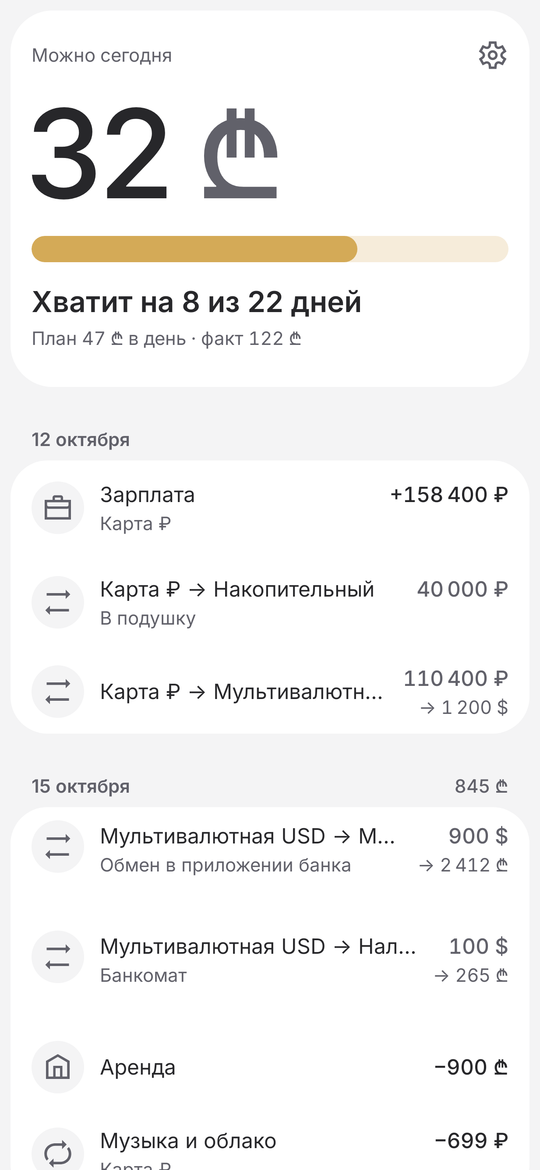
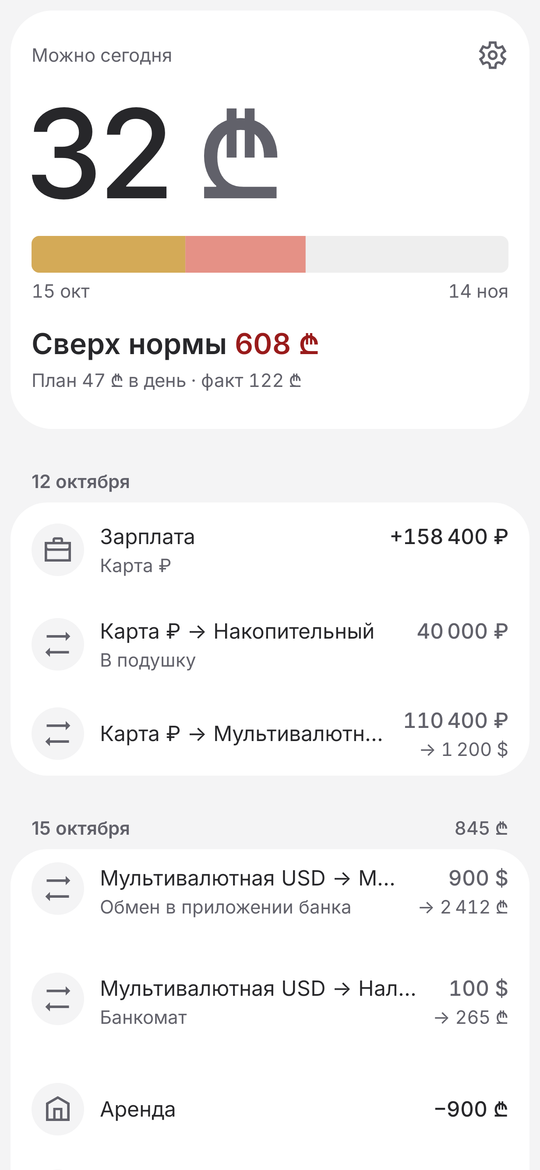
Home: the period as one bar, against the norm
The pace capsule gives way to one wide bar of the period: the days gone
pale, the money gone over them, past the even pace in red, with the
period's ends under it. The line under it says "Сверх нормы 258 ₾" or
"В норме", then the plan a day against the actual. The norm and the
shares live on Envelope, with tests.

diff --git a/app/src/main/java/sh/aminov/golda/ui/Screens.kt b/app/src/main/java/sh/aminov/golda/ui/Screens.kt
@@ -1,6 +1,14 @@
 package sh.aminov.golda.ui
 
 import androidx.compose.runtime.LaunchedEffect
+import androidx.compose.foundation.Canvas
+import androidx.compose.foundation.shape.RoundedCornerShape
+import androidx.compose.ui.geometry.Offset
+import androidx.compose.ui.geometry.Size
+import androidx.compose.ui.platform.LocalLayoutDirection
+import androidx.compose.ui.unit.LayoutDirection
+import java.time.format.DateTimeFormatter
+import sh.aminov.golda.domain.I18n
 import androidx.compose.animation.core.Animatable
 import androidx.compose.foundation.layout.offset
 import androidx.compose.ui.draw.drawWithContent
@@ -110,11 +118,8 @@ fun HomeScreen(
     val envelope = data.envelope
     LazyColumn(Modifier.fillMaxSize(), state = listState, contentPadding = padding.aboveActions()) {
         item(key = "hero") {
-            // One vivid tile holds the day: what may go today, what is on the card until when, and
-            // whether it lasts at the pace it actually goes. Spent past today's share, the whole tile
-            // turns to the error container.
-            // Spent past today's share, or nothing left on the card at all.
-            val over = envelope != null && (envelope.leftTodayMinor < 0 || envelope.balanceMinor <= 0)
+            // One vivid tile holds the day: what may go today, and the period as one bar, time against
+            // money, with whether the money goes faster than the days.
             val scheme = MaterialTheme.colorScheme
             val ink = scheme.onSurface
             val quiet = scheme.onSurfaceVariant
@@ -141,40 +146,32 @@ fun HomeScreen(
                 // caption, caption to figures, figures to bar, bar to text, under the text. The figures'
                 // line keeps its empty descent under the digits, so the spacer here is that much shorter.
                 VSpace(Gap.m - HeroDescent)
-                // What is still left of today's share; flat and full once it is spent.
-                val share = when {
-                    over -> 1f
-                    envelope.perDayMinor > 0 -> (left.toFloat() / envelope.perDayMinor).coerceIn(0f, 1f)
-                    else -> 0f
+                // The period as one bar: the days gone pale, the money gone over them, and what went
+                // past the even pace in red. The money short of the pale end is the margin.
+                val red = paceColor(Pace.OVER)
+                PeriodBar(envelope.timeShare, envelope.spentShare, paceColor(Pace.LASTS), red)
+                VSpace(Gap.xs)
+                // Where the bar starts and ends; no "today" here, the caption over the figure says it.
+                Row(Modifier.fillMaxWidth()) {
+                    Text(dayMonth(envelope.start), Modifier.weight(1f), style = text, color = quiet, maxLines = 1)
+                    Text(dayMonth(envelope.end), style = text, color = quiet, maxLines = 1)
                 }
-                // The one colour on the screen: how it goes. Green while the money lasts the period,
-                // ochre when it runs out sooner, muted red once today is overspent.
-                val pace = when {
-                    over -> Pace.OVER
-                    envelope.lasts(today) -> Pace.LASTS
-                    else -> Pace.SHORT
-                }
-                PaceCapsule(share, paceColor(pace))
                 VSpace(Gap.m)
-                // Looking ahead from today: the days still to get through, and the days the money lasts
-                // at the pace it really goes. Worked out again every day. A tap changes the period.
+                // Against the even pace: within it, or how much past it. A tap changes the period.
                 Column(Modifier.fillMaxWidth().clickable(onClick = onPeriod).testTag(Tags.HOME_PERIOD)) {
                     val ahead = envelope.daysLeft
                     fun days(n: Long) = plural(n, "день", "дня", "дней", "day", "days")
-                    // "из 13 дней", "из 21 дня": the genitive after "из".
-                    val ofDays = plural(ahead, "дня", "дней", "дней", "day", "days")
-                    val lasts = envelope.runwayDays
+                    val beyond = envelope.overNormMinor
                     Text(
                         when {
-                            envelope.balanceMinor <= 0 -> tr("Денег нет, впереди $ahead ${days(ahead)}", "No money left, $ahead ${days(ahead)} to go")
-                            left < 0 -> tr("Сегодня сверх плана на ${whole(-left, code)}", "${whole(-left, code)} over today's plan")
-                            ahead <= 1L -> tr("Последний день", "The last day")
-                            lasts == null -> tr("Впереди $ahead ${days(ahead)}", "$ahead ${days(ahead)} to go")
-                            envelope.lasts(today) -> (lasts - ahead).let { spare ->
-                                // A week or more to spare is worth saying; a day or two is noise.
-                                tr("Хватит на все $ahead ${days(ahead)}", "Lasts all $ahead ${days(ahead)}") + if (spare >= 7) ", +$spare" else ""
+                            envelope.balanceMinor <= 0 -> AnnotatedString(tr("Денег нет, впереди $ahead ${days(ahead)}", "No money left, $ahead ${days(ahead)} to go"))
+                            // Less than half a unit past it still reads "0 ₾": that is within it.
+                            beyond > 0 && Fmt.whole(beyond, code) != "0" -> buildAnnotatedString {
+                                append(tr("Сверх нормы ", "Over the norm by "))
+                                // The bar's red is too pale for words; the error ink reads in both themes.
+                                withStyle(SpanStyle(color = scheme.onErrorContainer)) { append(whole(beyond, code)) }
                             }
-                            else -> tr("Хватит на $lasts из $ahead $ofDays", "Lasts $lasts of $ahead $ofDays")
+                            else -> AnnotatedString(tr("В норме", "Within the norm"))
                         },
                         Modifier.testTag(Tags.HOME_RUNWAY),
                         // The tile's main statement: the one semibold line, in full ink, a size up.
@@ -575,15 +572,33 @@ private fun interestLine(minor: Long, currency: String, today: LocalDate): Strin
 /** "20 ₾": whole units only, for the numbers around the big one, which should be read at a glance. */
 private fun whole(minor: Long, code: String): String = Fmt.whole(minor, code) + " " + Currencies.symbol(code)
 
+/** "26 окт", "Oct 26": the ends of the period under its bar. Java's own Russian is "нояб.", hence the list. */
+private fun dayMonth(date: LocalDate): String =
+    if (I18n.russian) "${date.dayOfMonth} " + listOf("янв", "фев", "мар", "апр", "мая", "июн", "июл", "авг", "сен", "окт", "ноя", "дек")[date.monthValue - 1]
+    else date.format(DateTimeFormatter.ofPattern("MMM d", I18n.locale))
+
 /**
- * Today's share as a chunky capsule: the pace's colour filling a pale track of the same colour,
- * gliding to a new value with a little give.
+ * The period as one wide bar with small corners: the days gone in a pale [color], the money gone over
+ * them in [color] as far as the days and in [over] past them. Gliding to new values with a little give.
  */
 @Composable
-private fun PaceCapsule(share: Float, color: Color) {
-    val shown by animateFloatAsState(share.coerceIn(0f, 1f), MaterialTheme.motionScheme.slowSpatialSpec(), label = "capsule")
-    Box(Modifier.fillMaxWidth().height(20.dp).clip(CircleShape).background(color.copy(alpha = 0.22f))) {
-        if (shown > 0f) Box(Modifier.fillMaxHeight().fillMaxWidth(shown.coerceAtLeast(0.06f)).clip(CircleShape).background(color))
+private fun PeriodBar(time: Float, spent: Float, color: Color, over: Color) {
+    val spec = MaterialTheme.motionScheme.slowSpatialSpec<Float>()
+    val t by animateFloatAsState(time.coerceIn(0f, 1f), spec, label = "time")
+    val s by animateFloatAsState(spent.coerceIn(0f, 1f), spec, label = "spent")
+    val track = MaterialTheme.colorScheme.onSurface.copy(alpha = 0.08f)
+    val rtl = LocalLayoutDirection.current == LayoutDirection.Rtl
+    Canvas(Modifier.fillMaxWidth().height(28.dp).clip(RoundedCornerShape(6.dp))) {
+        fun band(from: Float, to: Float, paint: Color) {
+            if (to <= from) return
+            val x = size.width * from
+            val w = size.width * (to - from)
+            drawRect(paint, Offset(if (rtl) size.width - x - w else x, 0f), Size(w, size.height))
+        }
+        drawRect(track)
+        band(0f, t, color.copy(alpha = 0.32f))
+        band(0f, minOf(s, t), color)
+        band(t, s, over)
     }
 }
 

diff --git a/app/src/test/java/sh/aminov/golda/DebtsEnvelopePropertiesTest.kt b/app/src/test/java/sh/aminov/golda/DebtsEnvelopePropertiesTest.kt
@@ -199,6 +199,47 @@ class DebtsEnvelopePropertiesTest {
     }
 
     @Test
+    fun theNormIsTheMoneyAtAnEvenPace() {
+        // 1 800 for 26 October to 26 November, 32 days; on the 10th 820 is gone where 562,50 would have.
+        val today = start.plusDays(9)
+        val ops = listOf(op(1, OpType.INCOME, start, card to 180_000), op(2, OpType.EXPENSE, today, card to -82_000))
+        val e = Envelopes.of(card, start, start.plusDays(31), ops, today, zone)
+        assertEquals(32L, e.totalDays)
+        assertEquals(10L, e.elapsedDays)
+        assertEquals(180_000L, e.fundsMinor)
+        assertEquals(56_250L, e.normMinor)
+        assertEquals(25_750L, e.overNormMinor)
+        assertEquals(10f / 32, e.timeShare)
+        assertEquals(82_000f / 180_000, e.spentShare)
+        // Spent less than the norm: within it.
+        val slow = Envelopes.of(card, start, start.plusDays(31), listOf(ops[0], op(2, OpType.EXPENSE, today, card to -44_000)), today, zone)
+        assertEquals(44_000L - 56_250, slow.overNormMinor)
+    }
+
+    @Test
+    fun theNormRunsFromADayToAllTheMoney() = prop {
+        checkAll(Arb.long(0L..10_000_000L), Arb.long(0L..10_000_000L), Arb.int(0..40), Arb.int(0..40)) { topUp, spend, daysIn, after ->
+            val today = start.plusDays(daysIn.toLong())
+            val end = today.plusDays(after.toLong())
+            val ops = listOf(op(1, OpType.INCOME, start, card to topUp), op(2, OpType.EXPENSE, today, card to -spend))
+            val e = Envelopes.of(card, start, end, ops, today, zone)
+            assertEquals(daysIn + after + 1L, e.totalDays)
+            assertEquals(daysIn + 1L, e.elapsedDays)
+            assertEquals(topUp, e.fundsMinor)
+            assertEquals(spend, e.normMinor + e.overNormMinor)
+            assertTrue(e.normMinor in 0..topUp)
+            assertTrue(e.timeShare > 0f && e.timeShare <= 1f)
+            assertTrue(e.spentShare in 0f..1f)
+            // The last day the norm is all of it; the first, a day's worth.
+            if (after == 0) assertEquals(topUp, e.normMinor)
+            if (daysIn == 0) assertEquals(topUp / e.totalDays, e.normMinor)
+            // Nothing on the card and something spent: the money is all gone.
+            if (spend > 0 && topUp == 0L) assertEquals(1f, e.spentShare)
+            if (spend == 0L) assertEquals(0f, e.spentShare)
+        }
+    }
+
+    @Test
     fun theUsualLengths() {
         assertEquals(LocalDate.of(2026, 10, 22), Envelopes.end(start, Envelopes.Length.WEEK))
         assertEquals(LocalDate.of(2026, 10, 29), Envelopes.end(start, Envelopes.Length.TWO_WEEKS))

diff --git a/app/src/main/java/sh/aminov/golda/domain/Envelope.kt b/app/src/main/java/sh/aminov/golda/domain/Envelope.kt
@@ -55,6 +55,33 @@ data class Envelope(
      */
     fun lastsDays(today: LocalDate): Long? = runsOut(today)?.let { ChronoUnit.DAYS.between(start, it) }
 
+    /** Days in the period, the last one included: 26 October to 26 November is 32. */
+    val totalDays: Long get() = ChronoUnit.DAYS.between(start, end) + 1
+
+    /** Days of the period gone, today included: the 10th day is 10. */
+    val elapsedDays: Long get() = (totalDays - daysLeft + 1).coerceIn(1, totalDays)
+
+    /** The money of the period: what is on the card and what has gone from it since [start]. */
+    val fundsMinor: Long get() = balanceMinor + spentMinor
+
+    /**
+     * What would have gone by the end of today at an even pace: the money over the days, times the days
+     * gone. 1 800 ₾ for 32 days, on the 10th: 562 ₾.
+     */
+    val normMinor: Long get() = fundsMinor.coerceAtLeast(0) * elapsedDays / totalDays
+
+    /** Gone past the norm, "Сверх нормы 258 ₾"; zero or less is within it. */
+    val overNormMinor: Long get() = spentMinor - normMinor
+
+    /** The share of the period gone, today included, 0..1. */
+    val timeShare: Float get() = elapsedDays.toFloat() / totalDays
+
+    /** The share of the period's money gone, 0..1: all of it once nothing is left. */
+    val spentShare: Float get() = when {
+        fundsMinor <= 0 -> if (spentMinor > 0) 1f else 0f
+        else -> (spentMinor.toFloat() / fundsMinor).coerceIn(0f, 1f)
+    }
+
     /** The period's length in words when it is one of the usual ones. */
     val length: Envelopes.Length? get() = Envelopes.Length.entries.firstOrNull { Envelopes.end(start, it) == end }
 }

diff --git a/docs/tasks/home-details.md b/docs/tasks/home-details.md
@@ -1,5 +1,5 @@
 # Главная — аккуратные детали
-Статус: ждёт пользователя · Обновлено: 2026-11-04
+Статус: в работе · Обновлено: 2026-11-04
 
 ## Цель
 Дополнить главную одной-двумя маленькими полезными деталями, не ломая «одну цифру и одну полосу». Сначала прототип на
@@ -26,6 +26,9 @@
   понятная; предложи на выбор». Вторая строка: «„Ушло столько-то из стольких“ мне не интересно, я же говорил.
   Интереснее, какой план на день и какой фактически — как было раньше („План 43 ₾ в день · факт 67 ₾“). Какие суммы
   ушли конкретно — не так интересно». → Под статусом остаётся «План … в день · факт …».
+- 2026-11-04, раунд 5: выбрана формулировка **5** — «Сверх нормы 258 ₾» при переборе, «В норме» при запасе (без
+  суммы). Строим К1·а в коде: «Можно сегодня», цифра, полоса шире с малым скруглением (время бледно, траты поверх,
+  перебор красным), даты концов под полосой, статус формулировки 5, «План … в день · факт …». Без подсказок.
 
 ## Варианты (раунд 5, текущий): слова К1·а
 [home-details/prototype.html](home-details/prototype.html), кадр [home-details/prototype.png](home-details/prototype.png).
@@ -45,25 +48,29 @@
 - раунд 1: детали A–D — отвергнут (две полосы/графика)
 - раунд 2: четыре замены полосы темпа
 - раунд 4: три доводки К1 и три Р3 с инверсией — выбран К1·а
-- раунд 5: пять формулировок перебора/запаса для К1·а
+- раунд 5: пять формулировок перебора/запаса — выбрана 5
+- код: К1·а на главной. `Envelope` — `totalDays`, `elapsedDays`, `fundsMinor`, `normMinor`, `overNormMinor`,
+  `timeShare`, `spentShare` (тесты в `DebtsEnvelopePropertiesTest`, пример и свойства). `HomeScreen` — `PeriodBar`
+  вместо `PaceCapsule` (28 dp, скругление 6 dp), даты концов, статус «Сверх нормы N ₾» / «В норме», «План · факт».
+  Скриншоты перезаписаны; кадры до/после — `home-details/build-before*.png`, `build-after*.png`. README, SPEC §5.
 
 ## Осталось
-- [ ] пользователь выбирает формулировку; строить — по слову оркестратора
-- [ ] перенос в `HomeScreen` (ui/Screens.kt, вместо `PaceCapsule`), тексты через `tr`, тест на «сверх нормы N ₾» (норма = деньги × прошедшие дни / дни),
-  скриншот-тест, README/SPEC §5.2 и §5.5
+- [ ] показать на dev (телефон занят — делает оркестратор), влить в main вместе с соседними ветками
 
 ## Вопросы
-- Как назвать перебор и запас? — 1–5 — **рекомендую 1: «Сверх нормы 258 ₾» / «Запас 122 ₾»**: слово пользователя,
-  коротко, сумма отвечает «насколько», пара симметрична (два существительных). Если сумма в статусе лишняя рядом с
-  «План · факт» — 5 («В норме» без цифры при запасе).
+- Сумма «Сверх нормы» — тёмно-красным (`onErrorContainer`), а не красным полосы: бледный красный полосы на светлой
+  теме не читается как текст. Оставить так? — **рекомендую да**.
 - Р3 (карточка-полоса с инверсией) — отложен; вернуться вместе с задачей «Смелые темы».
 
 ## Подводные камни
-- Пользователь: элемент на плитке **один**. Ничего не добавлять рядом с полосой — только заменять её.
-- Дни в периоде: последний день ещё в нём (SPEC §5.1), месяц с 26 октября — 32 кусочка, `daysLeft` считает сегодня.
-  Кусочки «не хватит» = `daysLeft − runwayDays`; без бёрна (`runwayDays == null`) — все светлые.
-- В бёрн разовые не входят, а в «ушло» (вариант 1) — входят (это деньги с карты).
-- Цвет — по-прежнему цвет темпа (`paceColor`): перерасход за сегодня красит сегодняшний кусочек и светлые дни.
+- Пользователь: элемент на плитке **один**. Ничего не добавлять рядом с полосой.
+- Дни периода считают последний день (SPEC §5.1): месяц с 26 октября — 32 дня; `elapsedDays` = 32 − `daysLeft` + 1.
+- «Ушло» в полосе и норме — со всеми тратами, разовые включены (деньги ушли с карты); бёрн («факт») — без разовых.
+  Поэтому после крупной покупки «Сверх нормы» может быть, а «факт» — спокойный. Так задумано.
+- Деньги периода = остаток + ушло: пополнения в середине периода увеличивают их задним числом, норма пересчитывается.
+- Меньше полуединицы сверх нормы — «В норме» (иначе «Сверх нормы 0 ₾»).
+- Java сокращает «ноября» как «нояб.» — месяцы под полосой своим списком (`dayMonth`).
+- Пока бёрна нет, строка «План … в день» без «факт» — как и было.
 
 ## Готово, когда
-Пользователь выбрал вариант; после переноса — кадр на dev и скриншот-тест главной.
+Скриншот-тест главной перезаписан (сделано); кадр на dev — у оркестратора.

diff --git a/SPEC.md b/SPEC.md
@@ -266,6 +266,9 @@
 можно сегодня = на день − потрачено сегодня
 бёрн         = ушло с карты с начала периода, кроме разовых / дней с начала (сегодня включительно)
 хватит до    = сегодня + остаток / бёрн
+деньги периода = остаток на карте + ушло с начала периода
+норма        = деньги периода × прошедшие дни (сегодня включительно) / дни периода
+сверх нормы  = ушло с начала периода − норма
 ```
 
 Всё в валюте карты: положил 60 000 ₽, пришло 1 800 ₾ — считается в лари.
@@ -293,9 +296,13 @@
 - Поэтому бёрн не зависит от того, всё ли записано: сверил карту с банком —
   незаписанное попало в «Не записано» (п. 5.4), и бёрн честный. Записи нужны,
   чтобы видеть, куда ушли деньги, а не чтобы бюджет сходился.
-- На главной: «1 237 ₾ до 26 ноября · 56 ₾ в день» и «Тратишь 70 ₾ в день —
-  хватит до 30 ноября» или «— кончится 20 ноября, на 6 дней раньше». Пока с
-  начала периода ничего не ушло — «Темп появится после первых трат».
+- На главной под «Можно сегодня» — период одной широкой полосой с малым
+  скруглением: прошедшие дни — бледный цвет темпа, ушедшие деньги поверх —
+  цвет темпа, пока не обгоняют дни, и красный сверх них. Под полосой — даты
+  начала и конца. Дальше статус: «Сверх нормы 258 ₾» или «В норме» (меньше
+  полуединицы сверх — тоже в норме; денег на карте нет — «Денег нет, впереди
+  N дней»), и строка «План 43 ₾ в день · факт 67 ₾» — бёрн, пока он есть.
+  В «ушло» здесь входят и разовые: это деньги, ушедшие с карты.
 
 ### 5.3 Корзины и категории
 
@@ -336,8 +343,8 @@
 - **Сегодня** обновляется в полночь, при возвращении в приложение и при смене
   даты, времени или пояса: «Сегодня/Вчера» и бюджет не застревают во
   вчерашнем дне.
-- Главный экран показывает «можно сегодня» крупно, период и бёрн.
-  Перерасход за сегодня выделяется красным.
+- Главный экран показывает «можно сегодня» крупно, полосу периода, норму и
+  бёрн. Перерасход за сегодня — минусом в крупной цифре.
 - После записи траты с карты трат снизу пишется, сколько на сегодня осталось.
 
 ---

diff --git a/README.md b/README.md
@@ -60,10 +60,11 @@ loud is the moment you notice you are spending.
   that card asks "Новый месяц с …?" (on for a transfer from your own account,
   off for an income), so a friend's money never restarts the month; when the
   period ends, the next one of the same length begins.
-- **Burn from the balance.** How much a day actually leaves the card since
-  the top-up, and the day it runs out at that pace: "Spending 70 ₾ a day:
-  runs out November 20, 6 days early". Reconcile the card and it holds even
-  for days you wrote nothing down.
+- **The period in one bar.** The days gone fill it pale, the money gone over
+  them, and whatever went faster than the days in red: "Over the norm by
+  258 ₾" or "Within the norm", with the plan a day against what actually goes
+  ("Plan 43 ₾ a day · actual 67 ₾"). Measured by the card's balance:
+  reconcile the card and it holds even for days you wrote nothing down.
 - **Three buckets.** Everyday, regular (rent, phone, subscriptions) and
   one-off (clothes, travel, a pharmacy) spending, apart in insights.
 - **Regular payments**, under the accounts, with the day each is charged. Two
